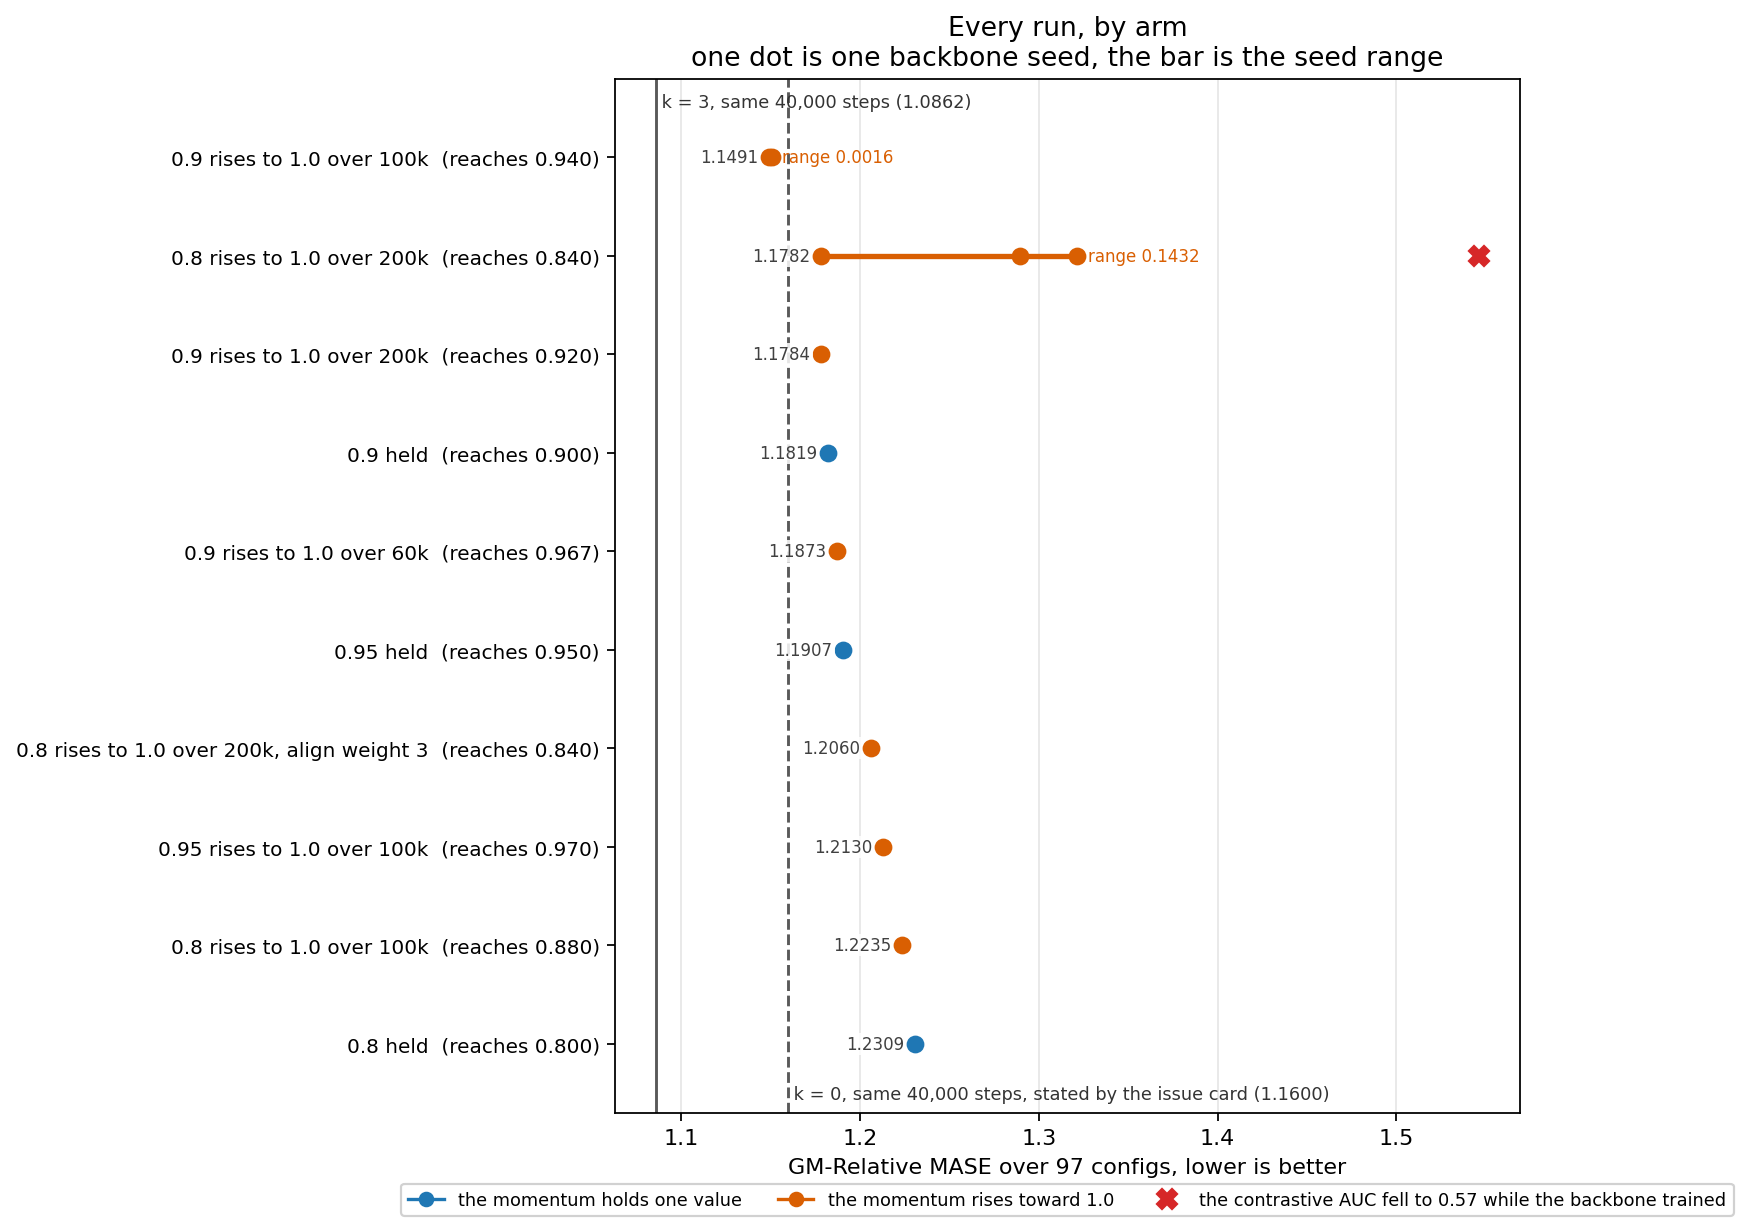
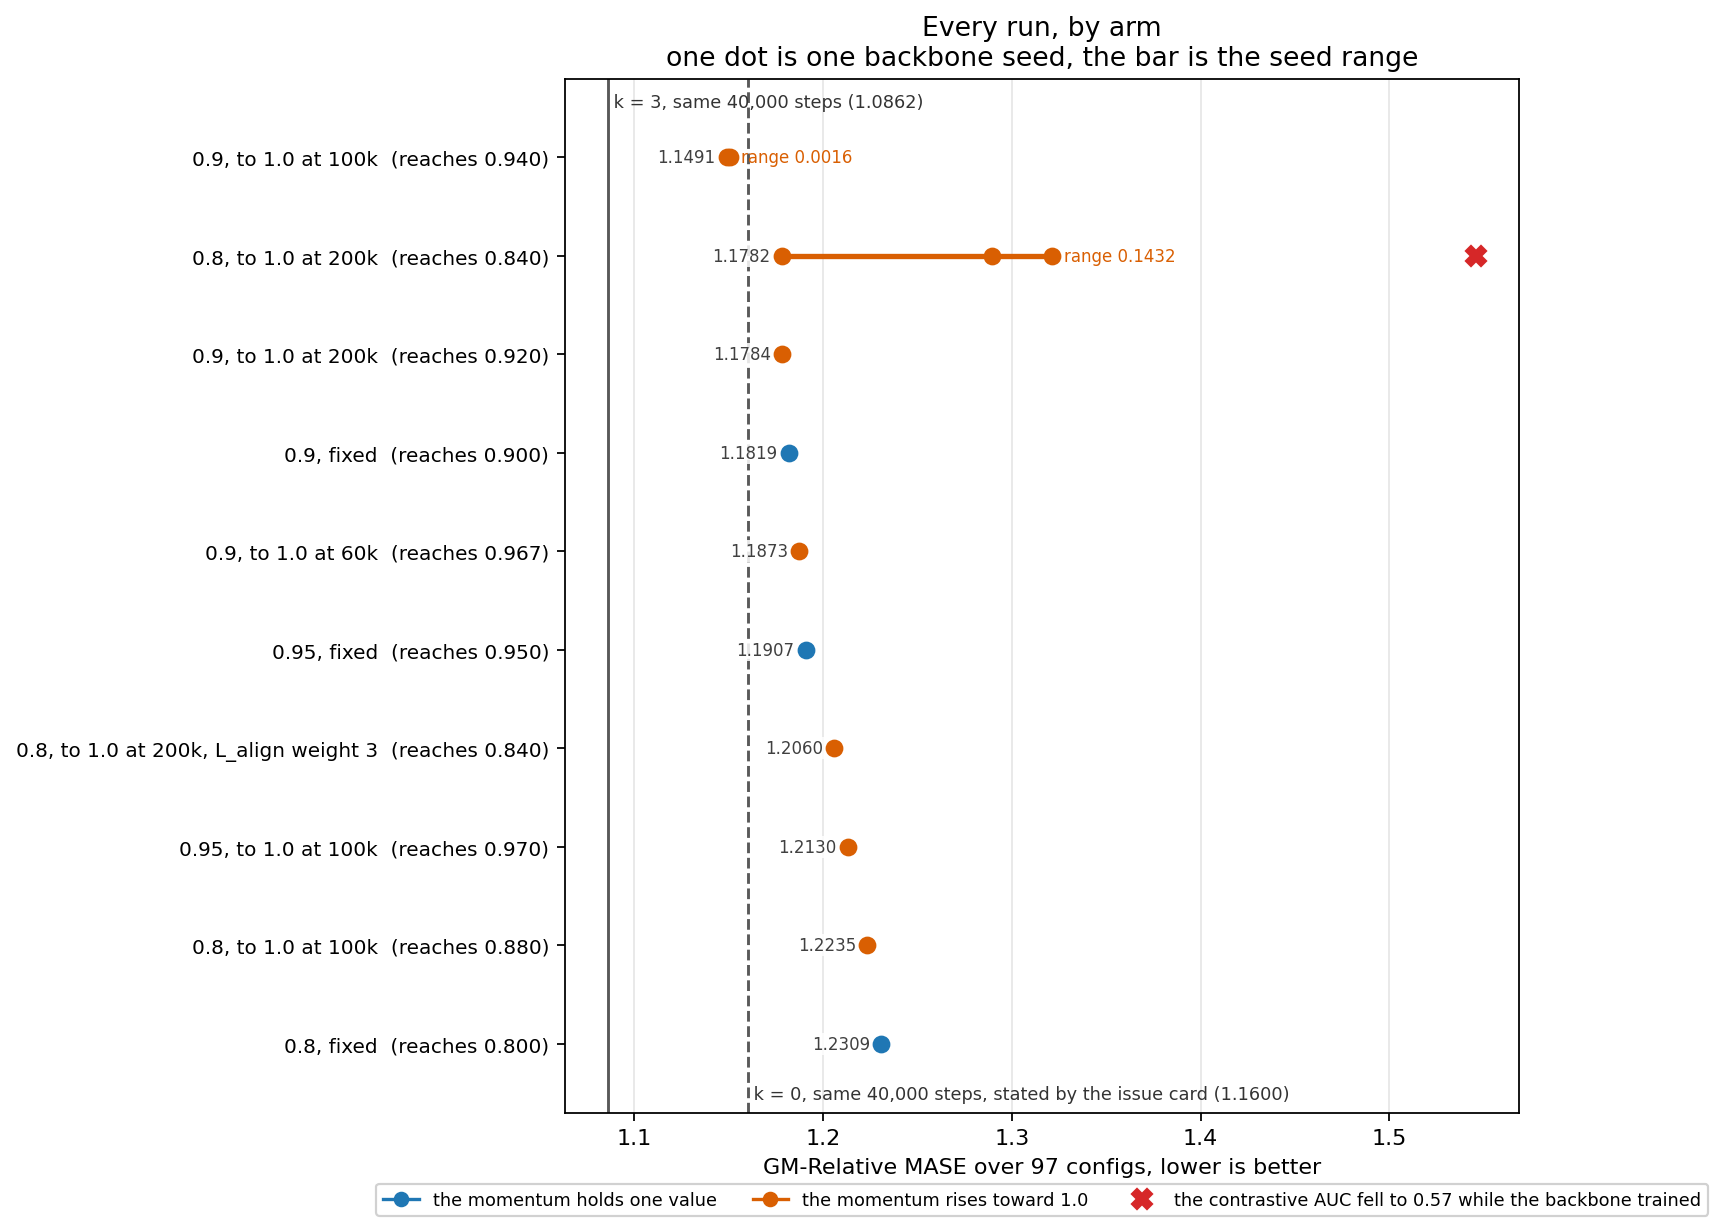
report(#404): one arm, one name, on every figure and in the table
One schedule carried three names. The backbone-health figure said "0.9
constant", the ranking figure said "0.9 held", and the table said "0.9,
fixed". The L_align weight carried three names the same way: "L_align
x3", "align weight 3", "L_align weight". A reader who met one name on the
first figure and another on the last had to stop and decide whether the
two figures drew one arm.

`plot_backbone_health.schedule_label` and `align_label` hold the one name
now, in the table's own words. `plot_arm_ranking` and `plot_domain_grid`
read those two functions. arm_ranking.png and domain_grid.png are
redrawn. backbone_health.png prints no arm label, so its redraw gives the
same bytes.

`TestOneArmOneName` locks it: one arm gives one label string, the table
cell and the figure label are that same string, every figure that labels
an arm reads the one function, and no figure writes a dropped name again.

Suite: 2606 passed, 0 failed.

diff --git a/tests/test_404_ema_momentum_k32.py b/tests/test_404_ema_momentum_k32.py
@@ -21,6 +21,7 @@ the domain grid and the table — are covered in section 8.
 
 from __future__ import annotations
 
+import ast
 import csv
 import importlib.util
 import math
@@ -54,6 +55,8 @@ PLOT_MOMENTUM = EXP / "scripts" / "plot_momentum.py"
 PLOT_REACHED = EXP / "scripts" / "plot_reached_two_colours.py"
 PLOT_CURVES = EXP / "scripts" / "plot_loss_curves.py"
 PLOT_GRID = EXP / "scripts" / "plot_domain_grid.py"
+PLOT_RANKING = EXP / "scripts" / "plot_arm_ranking.py"
+PLOT_HEALTH = EXP / "scripts" / "plot_backbone_health.py"
 MAKE_TABLE = EXP / "scripts" / "make_table.py"
 
 PARENT_LEG = PARENT / "scripts" / "run_leg_k.sh"
@@ -1740,6 +1743,120 @@ class TestTheTableAndTheStatement:
         mt, rows = self.rows(tmp_path, {})
         with pytest.raises(SystemExit):
             mt.statement(rows)
+
+
+# --- 8b. One arm, one name ---------------------------------------------------
+
+
+class TestOneArmOneName:
+    """One arm carries ONE name, in the table and on every figure.
+
+    ONE SCHEDULE ONCE CARRIED THREE NAMES. The backbone-health figure said
+    "0.9 constant", the ranking figure said "0.9 held", and the table said
+    "0.9, fixed". A reader who met the first name and then the third had to
+    stop and decide whether the two figures drew one arm. The L_align weight
+    carried three names the same way.
+
+    `plot_backbone_health.schedule_label` and `plot_backbone_health.align_label`
+    hold the one name now, in the table's own words, and every figure that
+    labels an arm calls them.
+    """
+
+    # Every figure script that puts an arm's name on the page. The health
+    # figure holds the two functions; the other two read them.
+    READERS = ("plot_arm_ranking.py", "plot_domain_grid.py")
+
+    # The names the study dropped, each as the whole literal that carried it:
+    # `f"{alpha:g} held"` puts " held" in the module on its own. A script that
+    # brings one back splits one arm into two for the reader.
+    DEAD = (" constant", " held", " rises to 1.0 over ",
+            " rising to 1.0 at ", ", L_align x", ", align weight ")
+
+    def health(self):
+        return load_module(PLOT_HEALTH, "cf404_health_label")
+
+    def row(self, arm, alpha, end, ramp):
+        """One arm of `arms.tsv`, in the columns `scores.csv` gives."""
+        return {"arm": arm, "alpha": float(alpha),
+                "schedule": "fixed" if end == "-" else "ramp",
+                "ramp": 0 if ramp == "-" else int(ramp),
+                "align_w": float(ALIGN_W[arm])}
+
+    def literals(self, path):
+        """Every string the module can print. Docstrings are not printed."""
+        tree = ast.parse(path.read_text())
+        docs = set()
+        for node in ast.walk(tree):
+            body = getattr(node, "body", None)
+            if not isinstance(node, (ast.Module, ast.ClassDef, ast.FunctionDef,
+                                     ast.AsyncFunctionDef)) or not body:
+                continue
+            first = body[0]
+            if isinstance(first, ast.Expr) and \
+                    isinstance(first.value, ast.Constant) and \
+                    isinstance(first.value.value, str):
+                docs.add(id(first.value))
+        return [n.value for n in ast.walk(tree)
+                if isinstance(n, ast.Constant) and isinstance(n.value, str)
+                and id(n) not in docs]
+
+    def test_a_fixed_arm_carries_the_tables_words(self):
+        assert self.health().schedule_label(0.9, 0) == "0.9, fixed"
+
+    def test_a_ramp_arm_carries_the_tables_words(self):
+        h = self.health()
+        assert h.schedule_label(0.9, 100_000) == "0.9, to 1.0 at 100k"
+        assert h.schedule_label(0.8, 200_000) == "0.8, to 1.0 at 200k"
+
+    def test_the_align_weight_carries_the_tables_column(self):
+        h = self.health()
+        assert h.align_label(3.0) == ", L_align weight 3"
+
+    def test_the_cells_own_weight_names_nothing(self):
+        """Thirteen arms hold 1.0. A weight that separates no arm from another
+        belongs in no label."""
+        assert self.health().align_label(1.0) == ""
+
+    @pytest.mark.parametrize("arm,alpha,end,ramp", ARMS)
+    def test_the_table_cell_and_the_figure_label_are_one_string(
+            self, arm, alpha, end, ramp):
+        """`make_table` writes the momentum column. The figures write the row
+        label. Both are this one function's output, so they cannot drift."""
+        h = self.health()
+        mt = load_module(MAKE_TABLE, "cf404_make_table_label")
+        r = self.row(arm, alpha, end, ramp)
+        cell = f"{r['alpha']:g}, {mt.schedule_text(r)}"
+        assert cell == h.schedule_label(r["alpha"], r["ramp"]), arm
+
+    @pytest.mark.parametrize("arm,alpha,end,ramp", ARMS)
+    def test_one_arm_gives_one_label_on_every_figure(
+            self, arm, alpha, end, ramp):
+        """The ranking figure and the health figure open one arm's row with
+        one string, and both name its L_align weight the same way."""
+        h = self.health()
+        rank = load_module(PLOT_RANKING, "cf404_rank_label")
+        r = self.row(arm, alpha, end, ramp)
+        name = h.schedule_label(r["alpha"], r["ramp"])
+        weight = h.align_label(r["align_w"])
+        on_health = dict(h.arms())[arm]
+        on_ranking = rank.arm_label(r)
+        assert on_health.startswith(name), (arm, on_health)
+        assert on_ranking.startswith(name), (arm, on_ranking)
+        assert on_health.endswith(weight), (arm, on_health)
+        assert weight in on_ranking, (arm, on_ranking)
+
+    @pytest.mark.parametrize("script", READERS)
+    def test_every_labelling_figure_reads_the_one_function(self, script):
+        code = (EXP / "scripts" / script).read_text()
+        assert "plot_backbone_health" in code, script
+
+    @pytest.mark.parametrize(
+        "script", ("plot_arm_ranking.py", "plot_domain_grid.py",
+                   "plot_backbone_health.py"))
+    def test_no_figure_writes_a_name_of_its_own(self, script):
+        """A dropped name that comes back is the defect again."""
+        for text in self.literals(EXP / "scripts" / script):
+            assert text not in self.DEAD, (script, text)
 
 
 class TestMakePlots:

diff --git a/reports/2026-08-19_ema_momentum_k32/scripts/plot_backbone_health.py b/reports/2026-08-19_ema_momentum_k32/scripts/plot_backbone_health.py
@@ -51,6 +51,29 @@ def arm_rows(tsv: Path = ARMS_TSV):
     return rows
 
 
+def schedule_label(alpha: float, ramp: int) -> str:
+    """The name of one momentum schedule. THE STUDY HAS ONE, AND IT IS HERE.
+
+    One schedule once carried three names: "0.9 constant" on this figure,
+    "0.9 held" on the ranking figure, and "0.9, fixed" in the table. A reader
+    who met the first name and then the third had to stop and decide whether
+    the two figures drew one arm. These are the table's words, and every
+    figure that labels an arm calls this function for them.
+    """
+    if ramp:
+        return f"{alpha:g}, to 1.0 at {ramp // 1000}k"
+    return f"{alpha:g}, fixed"
+
+
+def align_label(align_w: float) -> str:
+    """The name of an L_align weight that is not the cell's own 1.0.
+
+    The words are the table column's, "L_align weight". An arm at 1.0 gets an
+    empty string, because that weight separates no arm from another.
+    """
+    return "" if float(align_w) == 1.0 else f", L_align weight {float(align_w):g}"
+
+
 def arms(tsv: Path = ARMS_TSV):
     """Every arm of the card, with a label that names what makes it unique.
 
@@ -60,21 +83,17 @@ def arms(tsv: Path = ARMS_TSV):
     place for its arms, and every other script reads it.
 
     The label carries a field only when that field separates this arm from
-    another. So `a08` stays "0.8 constant", and `w3_s08` has to name its seed
+    another. So `a08` stays "0.8, fixed", and `w3_s08` has to name its seed
     and its L_align weight, because `s08` shares its momentum and its ramp.
     """
     rows = arm_rows(tsv)
     shape = [(r["alpha"], r["ramp"]) for r in rows]
     out = []
     for r in rows:
-        if r["ramp"]:
-            label = f"{r['alpha']:g} rising to 1.0 at {r['ramp'] // 1000}k"
-        else:
-            label = f"{r['alpha']:g} constant"
+        label = schedule_label(r["alpha"], r["ramp"])
         if shape.count((r["alpha"], r["ramp"])) > 1 and r["seed"]:
             label += f", seed {r['seed']}"
-        if r["align_w"] != 1.0:
-            label += f", L_align x{r['align_w']:g}"
+        label += align_label(r["align_w"])
         out.append((r["arm"], label))
     return tuple(out)
 

diff --git a/reports/2026-08-19_ema_momentum_k32/scripts/plot_arm_ranking.py b/reports/2026-08-19_ema_momentum_k32/scripts/plot_arm_ranking.py
@@ -44,6 +44,10 @@ REF = _load("cf404_refs", "references.py")
 SEEDS = _load("cf404_seeds", "seed_report.py")
 MOM = _load("cf404_momentum", "plot_momentum.py")
 AT = _load("cf404_at_stop", "plot_momentum_at_stop.py")
+# The study's one name for one arm. `plot_backbone_health.schedule_label` and
+# `align_label` hold it, and the backbone-health figure and the domain grid
+# read the same two functions.
+HEALTH = _load("cf404_health", "plot_backbone_health.py")
 
 # One colour per kind of schedule, the same two the reached-value figure
 # uses. The ramp length is not in the colour.
@@ -53,13 +57,15 @@ KIND_NAME = {"fixed": "the momentum holds one value",
 
 
 def arm_label(r) -> str:
-    """What the reader sees for one arm. No internal name, no issue number."""
-    if r["schedule"] != "ramp" or not r["ramp"]:
-        base = f"{r['alpha']:g} held"
-    else:
-        base = f"{r['alpha']:g} rises to 1.0 over {r['ramp'] // 1000:g}k"
-    if float(r.get("align_w", 1.0)) != 1.0:
-        base += f", align weight {float(r['align_w']):g}"
+    """What the reader sees for one arm. No internal name, no issue number.
+
+    THE WORDS ARE NOT WRITTEN HERE. `plot_backbone_health` holds them, so an
+    arm named "0.9, fixed" on the first figure of the report carries that same
+    name on this one.
+    """
+    ramp = r["ramp"] if r["schedule"] == "ramp" else 0
+    base = HEALTH.schedule_label(r["alpha"], ramp)
+    base += HEALTH.align_label(r.get("align_w", 1.0))
     reached = AT.momentum_at(r["alpha"], r["schedule"], r["ramp"], 40000)
     return f"{base}  (reaches {reached:.3f})"
 
